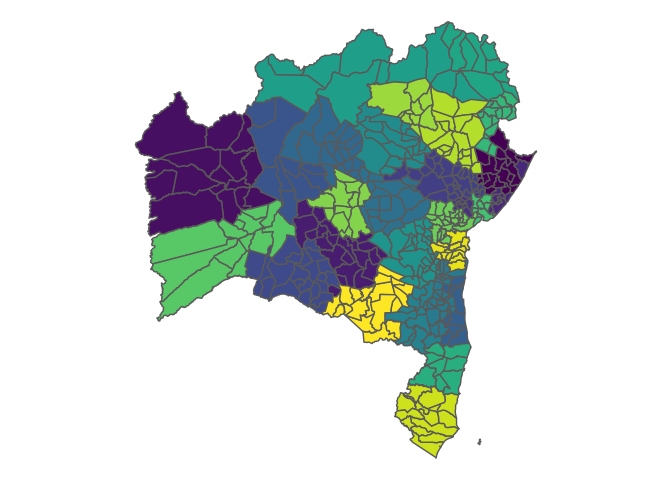
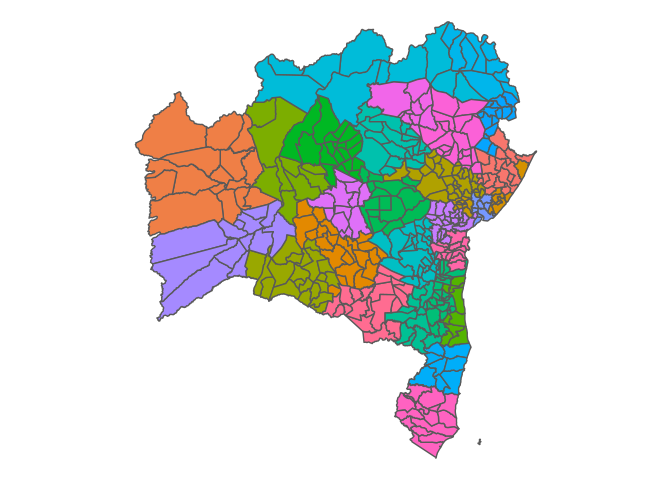
change colors

Changed region(s): [[0.1875, 0.0312, 0.8125, 0.9688]]

diff --git a/README.md b/README.md
@@ -56,7 +56,6 @@ mun_bahia <- mun_reg_sau %>%
 mun_bahia %>% 
   ggplot(aes(fill = CO_REGSAUD)) +
   geom_sf(show.legend = FALSE) +
-  scale_fill_viridis_d() +
   theme_void()
 ```
 
@@ -64,3 +63,5 @@ mun_bahia %>%
 
 Comparando com a fonte oficial do governo da
 [Bahia](http://www1.saude.ba.gov.br/mapa_bahia/indexch.asp):
+
+![image](https://user-images.githubusercontent.com/36868624/83819649-cc40d300-a6a0-11ea-911e-536cc685965b.png)
